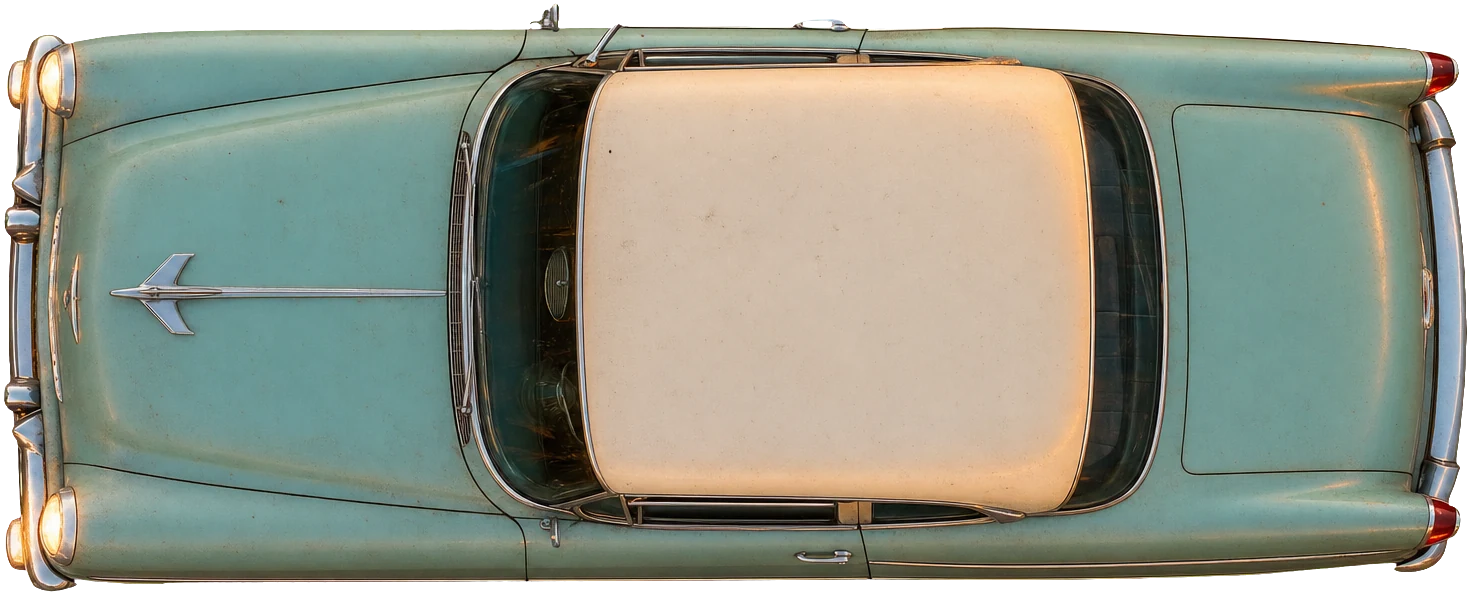
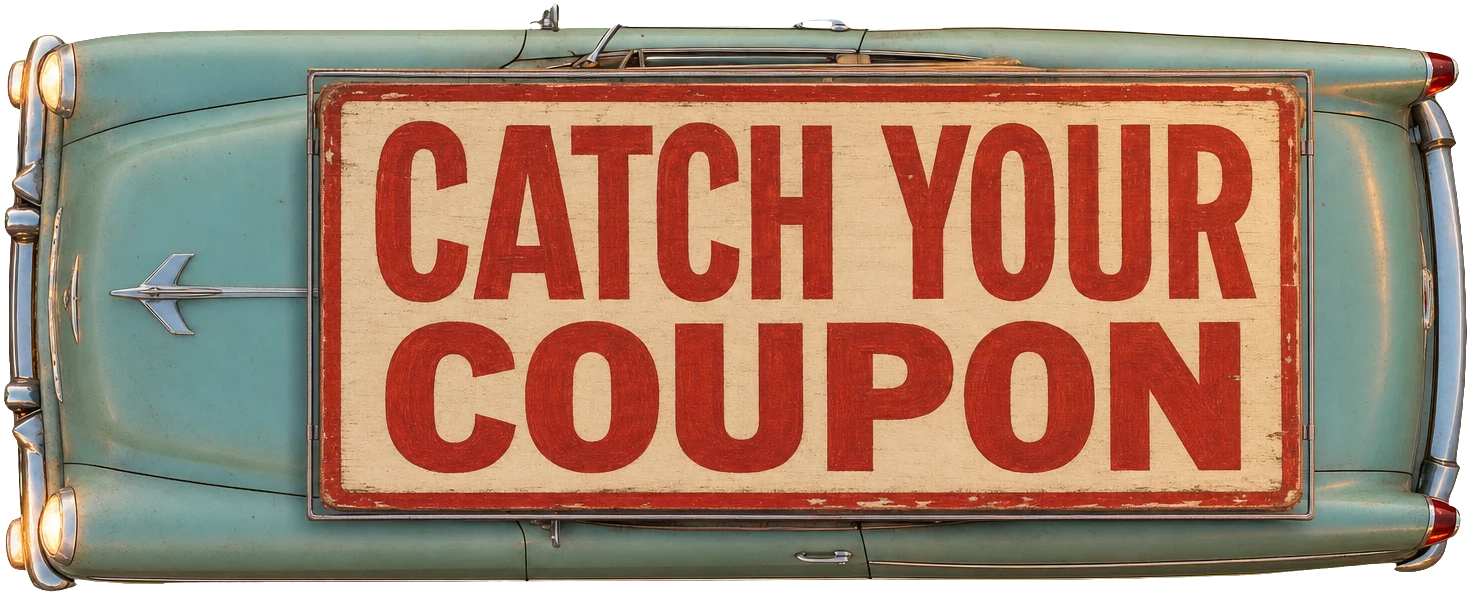
GAS 2 drone intro: the roof sign photographed into the car (revaudio-59)
Masked gpt-image-2 edit over the old drawn board, pasted back onto the approved
car (crop and aspect unchanged); the canvas board + frame box are gone.
sign-guide.py makes the guide + mask and composes; gen-edit.sh takes MASK=.
Landing still exact (mean 0.00 at 1440 + 390), no errors.

diff --git a/tools/_gas2-scene/drone/world.js b/tools/_gas2-scene/drone/world.js
@@ -220,17 +220,9 @@ function makeCar(scene, carTex) {
   const sh = add(new THREE.PlaneGeometry(6.4, 3), basic(0xffffff, { map: shadow, transparent: true, depthWrite: false }), .3, .02, .35); sh.rotation.x = -Math.PI / 2;
   const beam = canvasTex(256, 128, c => { const gr = c.createLinearGradient(256, 0, 0, 0); gr.addColorStop(0, 'rgba(255,214,140,.55)'); gr.addColorStop(1, 'rgba(255,214,140,0)'); c.fillStyle = gr; c.beginPath(); c.moveTo(256, 44); c.lineTo(0, 0); c.lineTo(0, 128); c.lineTo(256, 84); c.fill(); });
   const bm = add(new THREE.PlaneGeometry(9, 4.2), basic(0xffffff, { map: beam, transparent: true, blending: THREE.AdditiveBlending, depthWrite: false }), -7, .03, 0); bm.rotation.x = -Math.PI / 2;
-  const body = add(new THREE.PlaneGeometry(5, 5 / 2.472), basic(0xffffff, { map: carTex, transparent: true, depthWrite: false }), 0, 1.2, 0);   // the car from above (img/car.webp)
+  // the car from above with its roof sign in the photo (img/car.webp; the sign: drone/tools/sign-guide.py)
+  const body = add(new THREE.PlaneGeometry(5, 5 / 2.472), basic(0xffffff, { map: carTex, transparent: true, depthWrite: false }), 0, 1.2, 0);
   body.rotation.x = -Math.PI / 2;
-  const sign = canvasTex(1024, 400, c => {
-    c.fillStyle = '#efe6d2'; c.fillRect(0, 0, 1024, 400);
-    c.strokeStyle = '#b8341e'; c.lineWidth = 22; c.strokeRect(11, 11, 1002, 378);
-    c.fillStyle = '#b8341e'; c.textAlign = 'center'; c.textBaseline = 'middle';
-    c.font = '700 150px Oswald, Arial Narrow, sans-serif'; c.fillText('CATCH YOUR', 512, 128);
-    c.font = '700 168px Oswald, Arial Narrow, sans-serif'; c.fillText('COUPON', 512, 290);
-  });
-  add(new THREE.BoxGeometry(3.3, .08, 1.4), basic('#2a2622'), .25, 1.47, 0);              // the roof board's frame
-  const top = add(new THREE.PlaneGeometry(3.2, 1.32), basic(0xffffff, { map: sign }), .25, 1.52, 0); top.rotation.x = -Math.PI / 2;
   let t0 = null;
   return {
     start(delay = 900) { t0 = performance.now() + delay; },

diff --git a/tools/_gas2-scene/drone/tools/sign-guide.py b/tools/_gas2-scene/drone/tools/sign-guide.py
@@ -1,0 +1,57 @@
+"""The roof sign on the car photo (revaudio-59, 2026-10-28): a masked gpt-image-2 edit, pasted back onto the approved car.
+  python -I drone/tools/sign-guide.py guide <car.png> <out dir>          -> sign-guide.png + sign-mask.png
+  python -I drone/tools/sign-guide.py compose <car.png> <edit.png> <out.png>
+guide = the car with a flat placeholder board where the old drawn sign sat (3.2 x 1.32 m, 0.25 m behind the car's
+centre); mask = see-through over the board plus a margin for its shadow. compose pastes only that area (feathered) back
+onto the original car, so the car Dan approved stays pixel for pixel."""
+import sys
+import numpy as np, cv2
+from PIL import Image, ImageDraw, ImageFont
+
+BOARD = (3.2, 1.32, .25)            # w, h, x offset in metres (as the drawn sign was); the car plane is 5 m long
+MARGIN = .12                        # metres round the board the edit may change (its shadow on the roof)
+
+
+def board_box(car):
+    a = car.astype(np.float32)
+    m = np.minimum(a[..., 0], a[..., 2]) - a[..., 1]                 # as post-art.py key_car: the crop the plane shows
+    alpha = cv2.erode(1 - np.clip((m - 30) / 90, 0, 1), np.ones((3, 3), np.uint8))
+    ys, xs = np.nonzero(alpha > .5)
+    x0, x1, y0, y1 = xs.min() - 4, xs.max() + 5, ys.min() - 4, ys.max() + 5
+    ppm = (x1 - x0) / 5
+    cx, cy = (x0 + x1) / 2 + BOARD[2] * ppm, (y0 + y1) / 2
+    w, h = BOARD[0] * ppm, BOARD[1] * ppm
+    return ppm, (cx - w / 2, cy - h / 2, cx + w / 2, cy + h / 2)
+
+
+def guide(car_path, out):
+    img = Image.open(car_path).convert('RGB')
+    ppm, (x0, y0, x1, y1) = board_box(np.asarray(img))
+    d = ImageDraw.Draw(img)
+    d.rectangle((x0, y0, x1, y1), fill=(239, 230, 210), outline=(184, 52, 30), width=round(.05 * ppm))
+    f1 = ImageFont.truetype('C:/Windows/Fonts/impact.ttf', round(.48 * ppm)); f2 = ImageFont.truetype('C:/Windows/Fonts/impact.ttf', round(.56 * ppm))
+    cx = (x0 + x1) / 2
+    d.text((cx, y0 + .31 * (y1 - y0)), 'CATCH YOUR', font=f1, fill=(184, 52, 30), anchor='mm')
+    d.text((cx, y0 + .7 * (y1 - y0)), 'COUPON', font=f2, fill=(184, 52, 30), anchor='mm')
+    img.save(f'{out}/sign-guide.png')
+    mask = Image.new('RGBA', img.size, (0, 0, 0, 255))
+    g = MARGIN * ppm
+    ImageDraw.Draw(mask).rectangle((x0 - g, y0 - g, x1 + g, y1 + g), fill=(0, 0, 0, 0))  # see-through = may change
+    mask.save(f'{out}/sign-mask.png')
+    print('board px', [round(v) for v in (x0, y0, x1, y1)], 'ppm', round(ppm, 1))
+
+
+def compose(car_path, edit_path, out):
+    car = np.asarray(Image.open(car_path).convert('RGB')).astype(np.float32)
+    edit = np.asarray(Image.open(edit_path).convert('RGB').resize(car.shape[1::-1], Image.LANCZOS)).astype(np.float32)
+    ppm, (x0, y0, x1, y1) = board_box(car.astype(np.uint8))
+    g = (MARGIN + .1) * ppm           # a little past the mask: the model draws the rack's rails right at its edge
+    w = np.zeros(car.shape[:2], np.float32)
+    w[round(y0 - g):round(y1 + g), round(x0 - g):round(x1 + g)] = 1
+    w = cv2.GaussianBlur(cv2.erode(w, np.ones((9, 9), np.uint8)), (0, 0), 3)[..., None]   # feathered
+    Image.fromarray(np.clip(car * (1 - w) + edit * w, 0, 255).astype(np.uint8)).save(out)
+    print('composed', out)
+
+
+if sys.argv[1] == 'guide': guide(*sys.argv[2:4])
+else: compose(*sys.argv[2:5])

diff --git a/tools/_gas2-scene/drone/README.md b/tools/_gas2-scene/drone/README.md
@@ -5,8 +5,8 @@ out and the readings pop in fast. A car drives right to left on load with **CATC
 from the hover. One flight per load (scrolling back up does not fly back). Owner: Claude Code `revaudio-59`.
 
 State: Dan picked the default camera (TOP). The flight's art is real (gpt-image-2, 2026-10-28): the aerial (field, roof,
-road), the close-up road round the landing spot and the car. Walls and props stay blockout boxes; the TOP flight never
-sees them (the page frame takes over first). The angled presets still see past the aerial onto the blockout ground.
+road), the close-up road round the landing spot and the car with its roof sign. The walls stay blockout boxes (the TOP
+flight never sees them: the page frame takes over first); the sidewalk props are left out, the page frame has them. The angled presets still see past the aerial onto the blockout ground.
 
 ## Run it
 
@@ -39,7 +39,7 @@ change in the code "does nothing", clear that key or press Copy to see what is s
 - `run.js` — the flight. A full-window WebGL canvas over the page, a scroll runway (`--dr-len` screens), the camera
   path, the hand-off and `pop()` (the readings' entrance, WAAPI).
 - `world.js` — the 3D set (three.js r185 in `vendor/`): ground (road, cracks, potholes, field), shop box, roof with
-  GAS 2 painted on it, props as boxes, the car, sky, and the **landing quad**: the page frame (`img/land.webp`) on a
+  GAS 2 painted on it, no sidewalk props (the page frame has them), the car, sky, and the **landing quad**: the page frame (`img/land.webp`) on a
   plane 60 m out that exactly fills the landing camera's view.
 - The landing camera matches `frames/f6-v17.png`: f = 1500 px on 1536×1024, eye 1.33 m, wall 6.6 m ahead. The canvas
   uses the page's own `.scene` crop (`setViewOffset`), so touchdown lands pixel for pixel at any window size.
@@ -52,7 +52,7 @@ change in the code "does nothing", clear that key or press Copy to see what is s
 - Hand-off: render the exact landing frame, show the page under it, fade the canvas, pop the readings, remove the
   runway, scroll to 0, dispose the renderer. After landing the page equals `?drone=0`.
 
-## The art (how it was made; Dan OK'd the cost 2026-10-28, ~$1.50 for three images)
+## The art (how it was made; Dan OK'd the cost 2026-10-28, ~$2 in all: ~$1.50 for three images + ~$0.50 the sign)
 
 1. `node drone/tools/ortho.cjs <out.png> <x0,z0,w,h> 3072x2048` renders the set straight from above (`ortho.html`):
    the layout guide. AER = `-23.5,-19,39,26` (the hover's view with margin), RN = `-6,-6.6,12,8` (round the landing spot).
@@ -62,10 +62,16 @@ change in the code "does nothing", clear that key or press Copy to see what is s
    - near = `prompt-near.txt` over the aerial's RN crop blown up to 3072 px, with the page photo's bottom as reference.
    - car = `prompt-car.txt` as a plain generation (`/v1/images/generations`, 1536x1024; no transparent background on
      this model, so flat magenta), 2 takes, take 1 kept.
+   - the roof sign (Dan: "make it", 2026-10-28) goes into the car photo, not on a drawn board:
+     `python -I drone/tools/sign-guide.py guide <car.png> <dir>` draws a flat placeholder board where the old drawn sign
+     sat (3.2 x 1.32 m) + a mask; `MASK=<dir>/sign-mask.png bash drone/tools/gen-edit.sh <out> 1536x1024 2
+     prompt-car-sign.txt <dir>/sign-guide.png`; read the letters at full size (only CATCH YOUR / COUPON, nothing
+     invented); `sign-guide.py compose <car.png> <edit.png> <car-sign.png>` pastes only the board area back onto the
+     approved car (the crop and its 2.472 aspect stay). car-sign.png is the `<car>` for step 3. ~$0.50.
 3. `python -I drone/tools/post-art.py <aerial> <near> <car> drone/img`: softens the straight edge between the lanes,
    gives the close-up the aerial's tone (no lighter patch in the hover), tames the AI's orange lamp pool on the road to
    the page photo's road colour where the 3D ground meets the photo at touchdown, keys the car, writes the webp files
-   (2560 px, q75: aerial ~0.57 MB, near ~1.1 MB, loaded after the hover shows; car ~0.1 MB).
+   (2560 px, q75: aerial ~0.57 MB, near ~1.1 MB, loaded after the hover shows; car ~0.17 MB).
    The originals (q95) are in the design-assets repo, `gas2-drone/`.
 
 AER and RN live in both `world.js` and `post-art.py`: change them together, then re-render the guides and regenerate.

diff --git a/tasks/handoff.md b/tasks/handoff.md
@@ -1,6 +1,6 @@
 ## 2026-10-28 — GAS 2 page: the drone intro, from scratch (Claude Code `revaudio-59`, laptop 1) — BRANCH `feat/gas2-drone`
 
-Claim: OPEN `revaudio-59`. Scene + benches BUILT; Dan picked the DEFAULT camera (TOP); the REAL ART is in (gpt-image-2, 2026-10-28, ~$1.50). Waiting on Dan's look.
+Claim: OPEN `revaudio-59`. Scene + benches BUILT; Dan picked the DEFAULT camera (TOP); the REAL ART is in (gpt-image-2, 2026-10-28, ~$2 with the roof sign); sidewalk blockout props removed. Waiting on Dan's look.
 Files: NEW `tools/_gas2-scene/drone/**`; in `page-b.html` ONE `<link>` + `<script>` line (after the radio
 line), nothing else of page-b's; one README line pair; `tasks/todo.md` (the "GAS 2 drone descent" section); this entry.
 - Dan: a hovering drone above the station; scroll down = it comes down into the final scene, then GAS 2 pops and the right
@@ -59,8 +59,16 @@ line), nothing else of page-b's; one README line pair; `tasks/todo.md` (the "GAS
 - Checked (headless Edge, `check.cjs` top, 1440x900 + 390x844): landed = `?drone=0` mean 0.00; landing frame 2.55 /
   1.47 (unchanged); no errors. Weight now: three 744 KB + land 703 + aerial 569 + car 103 KB (+ near 1.1 MB after the
   hover shows) = ~2.1 MB before the hover, ~3.2 MB in all. Not checked: WebKit, a real phone.
-- Open: the roof board on the car is still drawn text (crisp, readable; looks graphic next to the photo car); the coupon
-  code (a real Paddle code from Dan); Dan's look.
+- Then (Dan: "make it", "do what you think is right", 2026-10-28): the roof sign is IN the car photo now (masked
+  gpt-image-2 edit over the old drawn board, 2 takes, take 1, ~$0.50; pasted back onto the approved car, so the car and
+  its crop are unchanged; `drone/tools/sign-guide.py`, `prompt-car-sign.txt`, README "The art"); the drawn board + frame
+  box are gone from `world.js`. Spelling read at full size: CATCH YOUR / COUPON, nothing else. Original q95 in
+  design-assets (`2393679`). Readable in the hover at 1440 and at 390 (phone shots taken while the car crosses).
+  The sidewalk blockout props (pump, globe, radio, bin, chalkboard boxes) are out too (Dan: "delete the css", a
+  screenshot of the descent; `b0ea903`): the page frame has the props after the hand-off.
+- Checked again: landed = `?drone=0` mean 0.00 (1440 + 390); landing frame 2.55 / 1.47; no errors. Car 169 KB (was
+  103). Art spend in all: ~$2.
+- Open: the coupon code (a real Paddle code from Dan) and what catching it does; WebKit / a real phone; Dan's look.
 
 ## 2026-10-26 — GAS 2 page: the drone intro (hover above the station, scroll = descent, land, readings pop) (Claude Code `danavivi-19`, Dan's Mac) — BRANCH `feat/gas2-page`
 

diff --git a/tasks/todo.md b/tasks/todo.md
@@ -16,6 +16,8 @@ Dan's order (2026-10-28): finish the scene with placeholders first, then generat
 - [x] 4b. Real art (Dan OK'd 2026-10-28; ~$1.50, 3 gpt-image-2 images: aerial, close road, car; `drone/README.md` "The art"): near road under the frame (fixes the seam + the close-up
       asphalt), roof + field aerial, the car (top-down sprite). The roof board stays text-only until Dan names a real
       Paddle code and what catching it does.
+- [x] 4c. Dan, 2026-10-28: the roof sign photographed into the car (~$0.50, `drone/tools/sign-guide.py`) and the sidewalk
+      blockout props (the "css" boxes in the descent) removed. Landing still exact.
 - [ ] 5b. QA again + 1141x636, WebKit, reduced motion, no-WebGL, weight <= 2.5 MB, frame time.
 - [ ] 6. Dan's Safari + phone look; handoff, commit, push the branch (never main).
 
